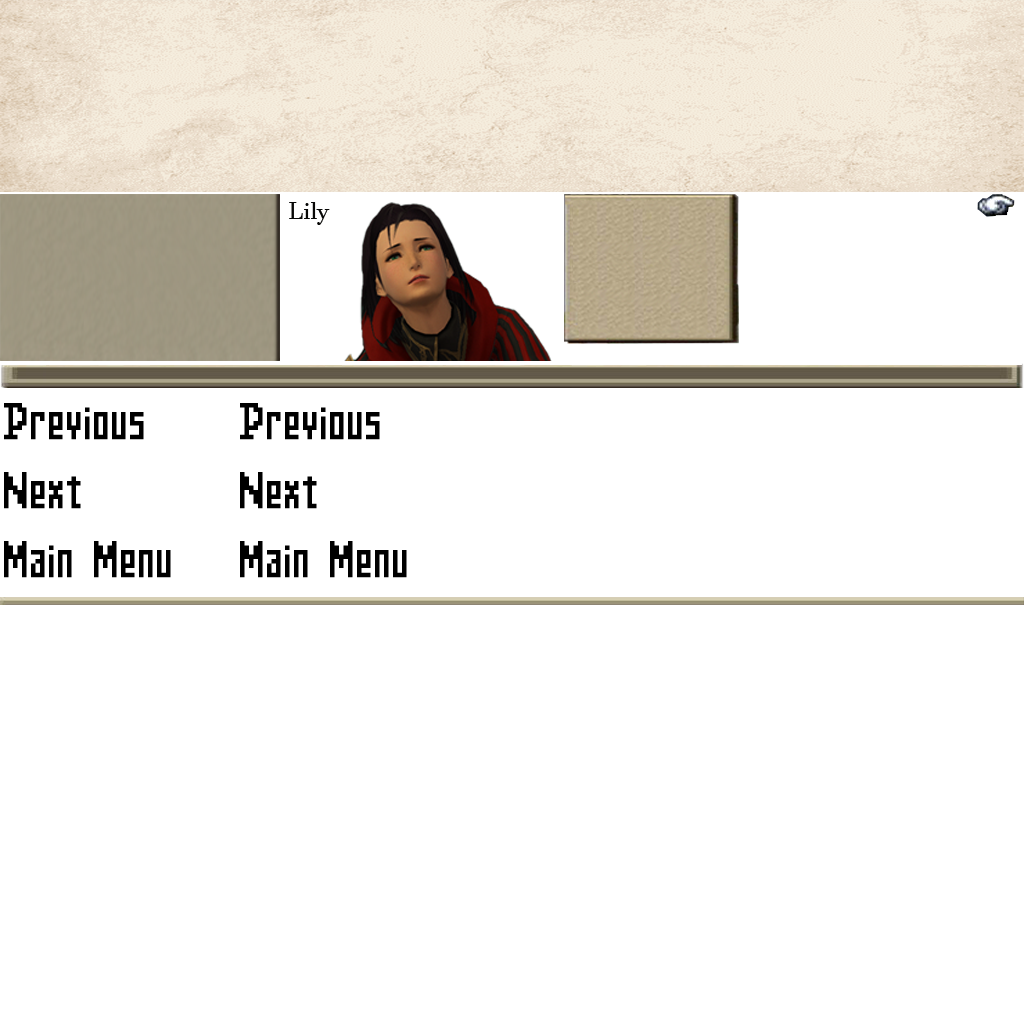
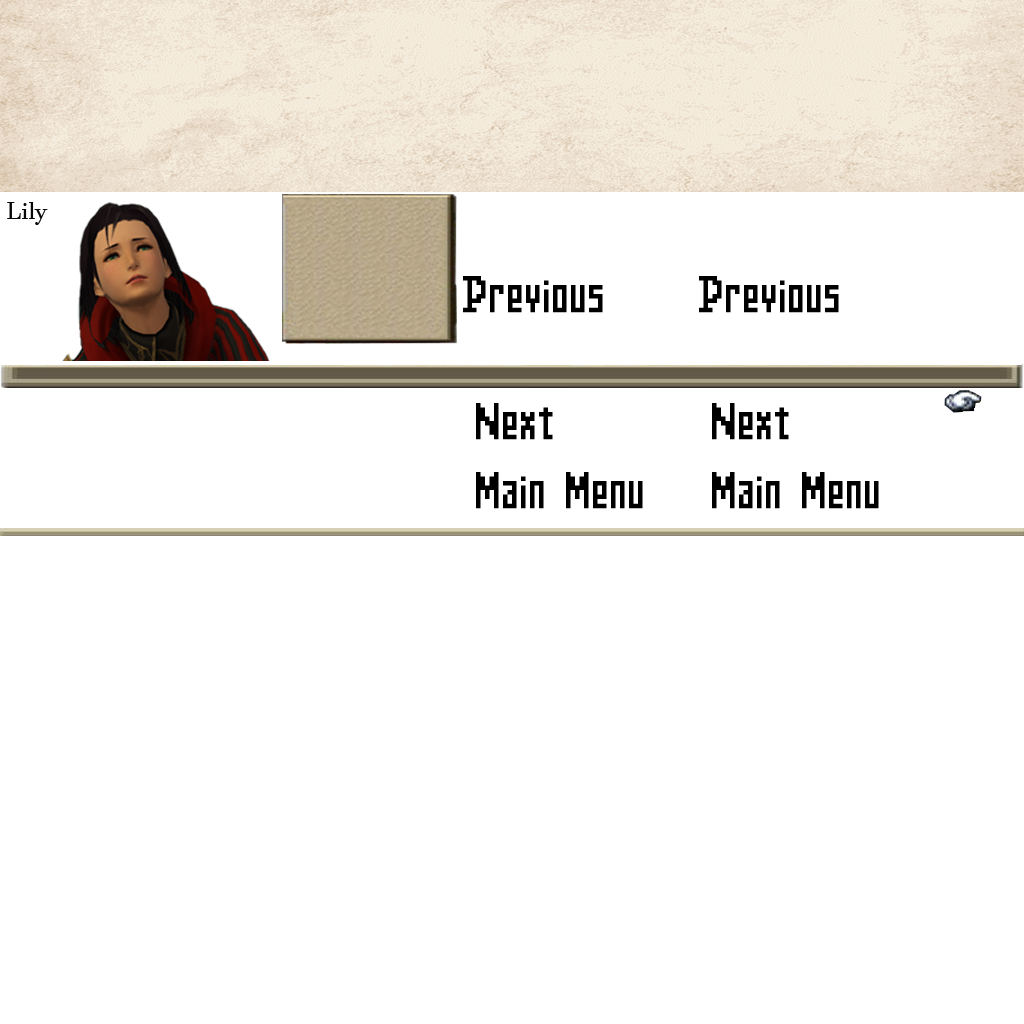
refresh

diff --git a/template.js b/template.js
@@ -3,7 +3,7 @@
 var p; // shortcut to reference prototypes
 var lib={};var ss={};var img={};
 lib.ssMetadata = [
-		{name:"template_atlas_1", frames: [[741,194,234,67],[741,263,234,67],[0,390,234,67],[236,390,234,67],[472,390,234,67],[708,390,234,67],[0,459,234,67],[236,459,234,67],[472,459,234,67],[708,459,234,67],[0,528,234,67],[236,528,234,67],[0,0,1024,192],[0,597,1024,8],[0,194,280,167],[977,194,38,23],[282,194,280,167],[564,194,175,150],[0,363,1024,25]]}
+		{name:"template_atlas_1", frames: [[459,194,234,67],[695,194,234,67],[459,263,234,67],[695,263,234,67],[0,390,234,67],[236,390,234,67],[472,390,234,67],[708,390,234,67],[0,459,234,67],[236,459,234,67],[472,459,234,67],[708,459,234,67],[0,0,1024,192],[0,528,1024,8],[944,390,38,23],[0,194,280,167],[282,194,175,150],[0,363,1024,25]]}
 ];
 
 
@@ -125,16 +125,9 @@ lib.ssMetadata = [
 
 
 
-(lib.charbox2 = function() {
-	this.initialize(ss["template_atlas_1"]);
-	this.gotoAndStop(14);
-}).prototype = p = new cjs.Sprite();
-
-
-
 (lib.Hand = function() {
 	this.initialize(ss["template_atlas_1"]);
-	this.gotoAndStop(15);
+	this.gotoAndStop(14);
 }).prototype = p = new cjs.Sprite();
 
 
@@ -147,21 +140,21 @@ p.nominalBounds = new cjs.Rectangle(0,0,2540,1425);
 
 (lib.Lily_Tired = function() {
 	this.initialize(ss["template_atlas_1"]);
-	this.gotoAndStop(16);
+	this.gotoAndStop(15);
 }).prototype = p = new cjs.Sprite();
 
 
 
 (lib.MenuBox = function() {
 	this.initialize(ss["template_atlas_1"]);
-	this.gotoAndStop(17);
+	this.gotoAndStop(16);
 }).prototype = p = new cjs.Sprite();
 
 
 
 (lib.Topbar = function() {
 	this.initialize(ss["template_atlas_1"]);
-	this.gotoAndStop(18);
+	this.gotoAndStop(17);
 }).prototype = p = new cjs.Sprite();
 // helper functions:
 
@@ -456,13 +449,10 @@ if (reversed == null) { reversed = false; }
 	this.timeline.addTween(cjs.Tween.get(this.instance_6).wait(1));
 
 	// Bottom
-	this.instance_7 = new lib.charbox2();
-	this.instance_7.setTransform(0,601);
+	this.instance_7 = new lib.Background();
+	this.instance_7.setTransform(0,576);
 
-	this.instance_8 = new lib.Background();
-	this.instance_8.setTransform(0,576);
-
-	this.timeline.addTween(cjs.Tween.get({}).to({state:[{t:this.instance_8},{t:this.instance_7}]}).wait(1));
+	this.timeline.addTween(cjs.Tween.get(this.instance_7).wait(1));
 
 	this._renderFirstFrame();
 
